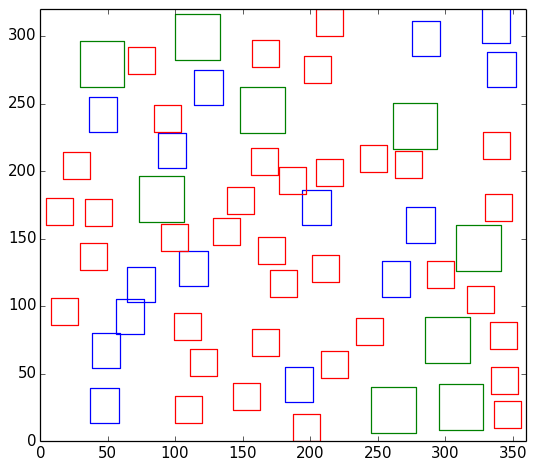
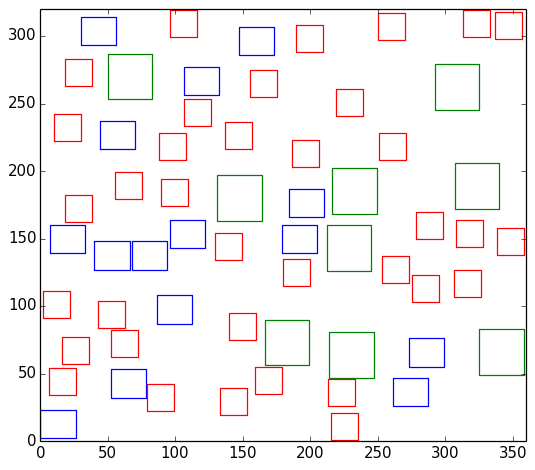
hij werkt weer

diff --git a/amstelhaegen_algoritme.py b/amstelhaegen_algoritme.py
@@ -13,7 +13,7 @@ import timeit
 
 start = timeit.default_timer()
 
-ITERATIONS = 5
+ITERATIONS = 50
 TOTAL_HOUSES = 60
 X_DIMENSION = 360
 Y_DIMENSION = 320
@@ -30,8 +30,8 @@ def drawBuilding(building, x, y, edgecolor):
 	ax1.add_patch(
 	    patches.Rectangle(
 	        (x, y),   			# (x,y)
-	        building.length,    # length
-	        building.width,     # width	# color
+	        building.width,    # length
+	        building.length,     # width	# color
 			linewidth = 1,
 			edgecolor = edgecolor,
 			facecolor = 'none'

diff --git a/classes.py b/classes.py
@@ -54,8 +54,8 @@ class Bungalow:
 
 class Maison:
 	name = 'maison'
-	length = 33
-	width = 34
+	length = 34
+	width = 33
 	price = 610000
 	marginalValue = 1.06
 
@@ -73,8 +73,3 @@ class Maison:
 		value = 610000 + (610000 * 0.06 * (self.freeSpace / 2))
 		self.value = value
 		return value
-
-# class Water:
-# 	total_area = 0.2 * 360 * 320
-# 	min_ratio = 1
-# 	max_ratio = 4
